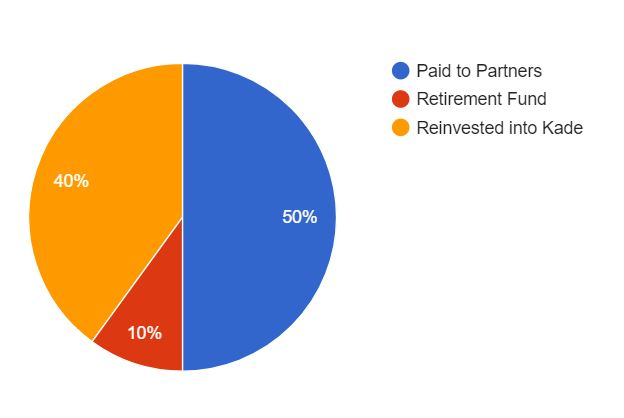
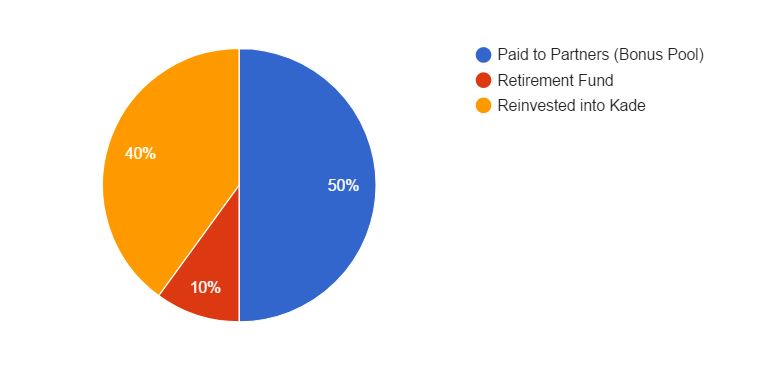
adding images

Changed region(s): [[0.0304, 0.1199, 0.5481, 0.8992], [0.609, 0.1199, 0.9439, 0.3297]]

diff --git a/manifesto/profit-sharing/index.html b/manifesto/profit-sharing/index.html
@@ -78,11 +78,11 @@
 <li>Kade covers all expenses for projects (see <a href="/manifesto/collective-assets">Collective Assets</a>)</li>
 </ul>
 
-<p><img src="http://madebykade.com/images/kade-monthly-profit.jpg" alt="alt text" title="Kade Monthly Profit" /></p>
+<p><img src="http://madebykade.com/images/kade-monthly-profit.png" alt="alt text" title="Kade Monthly Profit" /></p>
 
 <h5 id="profit-sharing-bonuses">Profit Sharing Bonuses</h5>
 
-<p>There are 4 tiers of partner, corresponding to their ability</p>
+<p>There are 4 tiers of partner, corresponding to their contribution to the company</p>
 
 <ul>
 <li>Full Partner (weighting = 10)</li>
@@ -91,7 +91,11 @@
 <li>Intern (weighting = 1)</li>
 </ul>
 
-<p>In this model, if Kade has $840K profit, the bonus pool would be $420K (840K * 50%). If there is one of each type of partner in Kade then the total pool weighting would be 21 (10 + 7 + 3 + 1). This means that each weighting &ldquo;unit&rdquo; is worth $20K ($420K / 21). The bonus at the end of the year would be:</p>
+<p>Each month the total bonus pool is split among the partners.</p>
+
+<p><em>Example</em></p>
+
+<p>If Kade has $84K profit, the bonus pool would be $42K (84K * 50%). If there is one of each type of partner in Kade then the total pool weighting would be 21 (10 + 7 + 3 + 1). This means that each weighting &ldquo;unit&rdquo; is worth $20K ($420K / 21). The bonus at the end of the year would be:</p>
 
 <ul>
 <li>Full Partner: $200K (10 * $20K)</li>
@@ -99,6 +103,12 @@
 <li>Junior Partner: $60K (3 * $20K)</li>
 <li>Intern: $20K (1 * $20K)</li>
 </ul>
+
+<p>|                     | Weighting   | Bonus ($)     |
+| &mdash;&mdash;&mdash;&mdash;-       |:&mdash;&mdash;&mdash;&ndash;:| &mdash;&ndash;        :|
+| Full Partner        | 10          |  $21,000      |
+| Senior Partner      | 7           |   $14,700     |
+| Junior Partner      | 3           |    $6,300     |</p>
 
 <p>There is an incentive to minimize the number of partners and maximize the profit. Partners are therefore commercially focused as well as operationally focused.</p>
 
